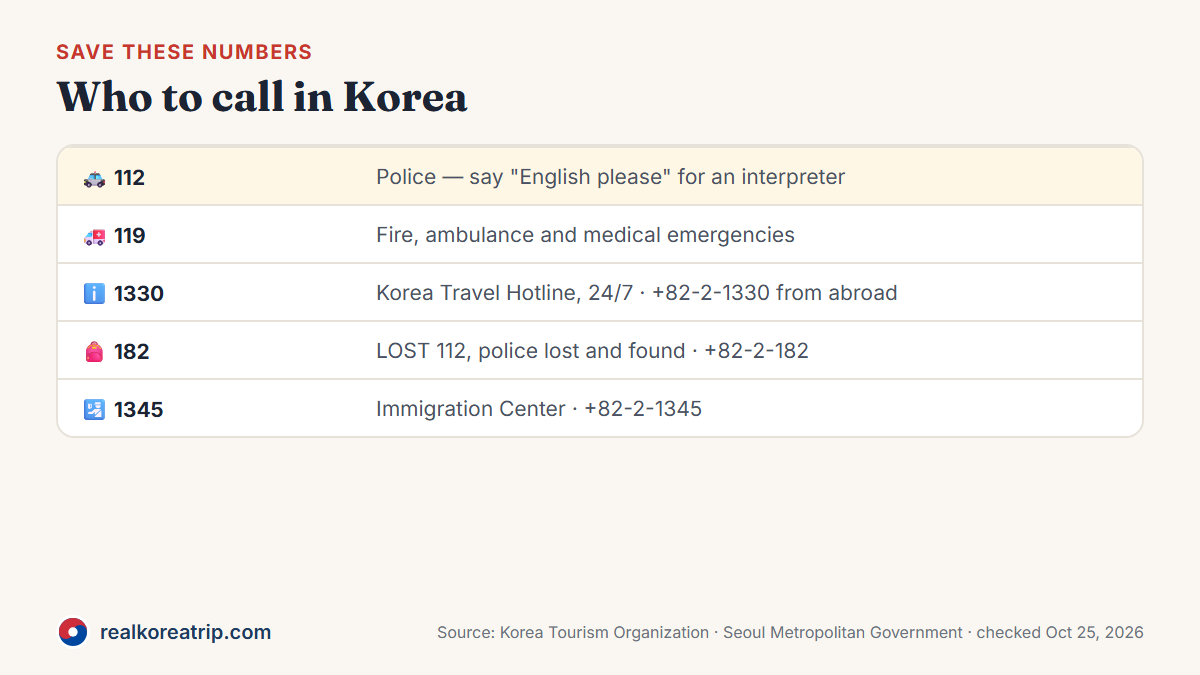
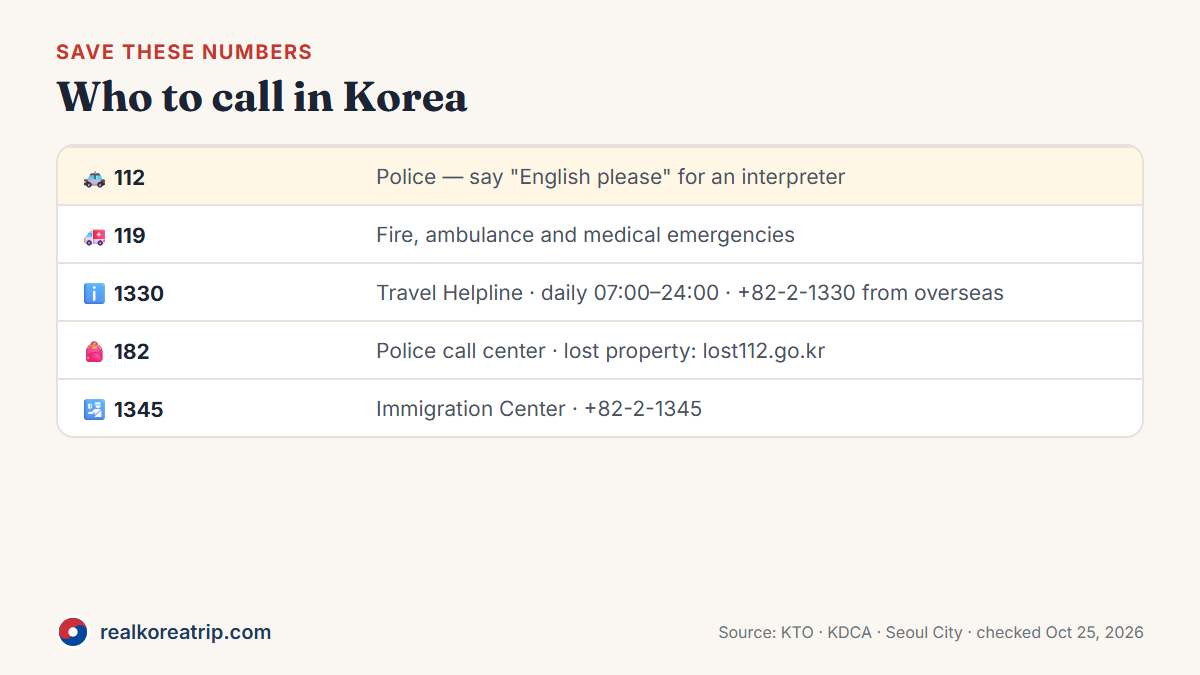
Busan guide: remove Haeundae photo (NoFoP warning on source file)

Changed region(s): [[0.3083, 0.4044, 0.8325, 0.4667], [0.37, 0.9022, 0.8017, 0.9644], [0.3083, 0.4978, 0.6783, 0.5289]]

diff --git a/busan-travel-guide/index.html b/busan-travel-guide/index.html
@@ -29,7 +29,6 @@
 <div class="tbl"><table><thead><tr><th></th><th>What to know</th></tr></thead><tbody><tr><td>Getting there</td><td>KTX Seoul–Busan via Gyeongju ₩54,400, Suseo–Busan ₩52,900 (standard adult; fares differ by route)</td></tr><tr><td>Getting around</td><td>Subway ₩1,600 or ₩1,800 by transit card, depending on distance; T-money works</td></tr><tr><td>Beach</td><td>Haeundae Beach, free, about 1.5 km of sand</td></tr><tr><td>Village</td><td>Gamcheon Culture Village, free, open daily</td></tr><tr><td>Market</td><td>Jagalchi Market; main building closed on the 1st, 3rd and 5th Tuesdays</td></tr><tr><td>Must-eat</td><td>Dwaeji gukbap (pork and rice soup), milmyeon (wheat noodles)</td></tr></tbody></table></div>
 <p class="src">Source: <a href="https://www.visitbusan.net/index.do?menuCd=DOM_000000301001001000&amp;uc_seq=365&amp;lang_cd=en" target="_blank" rel="noopener">Visit Busan</a>, <a href="https://english.visitkorea.or.kr/svc/contents/contentsView.do?vcontsId=111053" target="_blank" rel="noopener">Korea Tourism Organization</a>, <a href="https://www.bisco.or.kr/jagalchimarket/sub/sub02/sub02_1/?tabName=con04" target="_blank" rel="noopener">Busan Infrastructure Corporation</a>, <a href="https://www.humetro.busan.kr/homepage/english/page/subLocation.do?menu_no=100601040101" target="_blank" rel="noopener">Busan Transportation Corporation</a> and Korail's KTX fare table (as of Sep 1, 2026; see our <a href="/how-to-book-ktx-korea/">KTX guide</a>); checked Oct 23, 2026.</p>
 <h2 id="haeundae-beach">Haeundae Beach</h2>
-<figure class="fig"><img src="/img/photo-busan-haeundae.jpg?v=7055fa98" alt="Haeundae Beach with sand in the foreground and tall buildings along the shore" loading="lazy" width="1200" height="675"><figcaption>Haeundae Beach, May 2024. Photo: Brit in Seoul (CC BY-SA 4.0), cropped.</figcaption></figure>
 <p>The Korea Tourism Organization calls Haeundae the most famous beach in Busan, with white sand in front of a shallow bay. It gets crowded every summer.</p>
 <div class="tbl"><table><thead><tr><th>Entry</th><th>Free</th></tr></thead><tbody><tr><td>Size</td><td>About 1.5 km long and 30–50 m wide</td></tr><tr><td>Nearby</td><td>Dongbaekseom Island, Busan Aquarium</td></tr><tr><td>Swimming</td><td>Depends on the season and on-site rules: check the signs at the beach</td></tr></tbody></table></div>
 <p class="src">Source: <a href="https://english.visitkorea.or.kr/svc/contents/contentsView.do?vcontsId=111053" target="_blank" rel="noopener">Korea Tourism Organization — Haeundae Beach</a>; checked Oct 23, 2026.</p>
@@ -70,7 +69,7 @@
 <p>A Visit Busan food guide puts dwaeji gukbap (pork and rice soup) first, followed by milmyeon (wheat noodles). Jagalchi Market is known for seafood.</p>
 <h3 id="how-much-is-the-busan-subway">How much is the Busan subway?</h3>
 <p>₩1,600 or ₩1,800 for an adult with a transit card, depending on distance.</p></div>
-<div class="sources"><b>Sources</b><ul><li><a href="https://www.visitbusan.net/index.do?menuCd=DOM_000000301001001000&uc_seq=365&lang_cd=en" target="_blank" rel="noopener">Visit Busan (Busan Metropolitan City) — Gamcheon Culture Village</a></li><li><a href="https://visitbusan.net/index.do?lang_cd=en&menuCd=DOM_000000302003001000&uc_seq=1008" target="_blank" rel="noopener">Visit Busan — Delicious Busan food tour</a></li><li><a href="https://english.visitkorea.or.kr/svc/contents/contentsView.do?vcontsId=111053" target="_blank" rel="noopener">Korea Tourism Organization — Haeundae Beach</a></li><li><a href="https://english.visitkorea.or.kr/svc/whereToGo/locIntrdn/rgnContentsView.do?vcontsId=69318" target="_blank" rel="noopener">Korea Tourism Organization — Jagalchi Market</a></li><li><a href="https://www.bisco.or.kr/jagalchimarket/sub/sub02/sub02_1/?tabName=con04" target="_blank" rel="noopener">Busan Infrastructure Corporation — Jagalchi Market floor guide</a></li><li><a href="https://www.humetro.busan.kr/homepage/english/page/subLocation.do?menu_no=100601040101" target="_blank" rel="noopener">Busan Transportation Corporation — Subway fares</a></li></ul><p style="margin-top:8px;color:#7b8394">Last checked Oct 23, 2026. Details can change — please confirm with the official source before you travel.</p><p style="margin-top:12px"><b>Photo credits</b></p><ul><li><a href="https://commons.wikimedia.org/wiki/File:Haeundae_Beach_May_2024.jpg" target="_blank" rel="noopener">Haeundae Beach (May 2024) — Brit in Seoul, CC BY-SA 4.0, cropped</a> (<a href="https://creativecommons.org/licenses/by-sa/4.0/" target="_blank" rel="noopener license">license</a>)</li><li><a href="https://commons.wikimedia.org/wiki/File:Gamcheon_Culture_Village_in_Busan,_South_Korea.jpg" target="_blank" rel="noopener">Gamcheon Culture Village (Apr 2026) — VN.NguyenDucDuy, CC BY-SA 4.0, cropped</a> (<a href="https://creativecommons.org/licenses/by-sa/4.0/" target="_blank" rel="noopener license">license</a>)</li><li><a href="https://commons.wikimedia.org/wiki/File:Jagalchi_Market_01.jpg" target="_blank" rel="noopener">Jagalchi Market (Oct 2022) — Bernard Gagnon, CC0, cropped</a> (<a href="https://creativecommons.org/publicdomain/zero/1.0/" target="_blank" rel="noopener license">license</a>)</li></ul></div>
+<div class="sources"><b>Sources</b><ul><li><a href="https://www.visitbusan.net/index.do?menuCd=DOM_000000301001001000&uc_seq=365&lang_cd=en" target="_blank" rel="noopener">Visit Busan (Busan Metropolitan City) — Gamcheon Culture Village</a></li><li><a href="https://visitbusan.net/index.do?lang_cd=en&menuCd=DOM_000000302003001000&uc_seq=1008" target="_blank" rel="noopener">Visit Busan — Delicious Busan food tour</a></li><li><a href="https://english.visitkorea.or.kr/svc/contents/contentsView.do?vcontsId=111053" target="_blank" rel="noopener">Korea Tourism Organization — Haeundae Beach</a></li><li><a href="https://english.visitkorea.or.kr/svc/whereToGo/locIntrdn/rgnContentsView.do?vcontsId=69318" target="_blank" rel="noopener">Korea Tourism Organization — Jagalchi Market</a></li><li><a href="https://www.bisco.or.kr/jagalchimarket/sub/sub02/sub02_1/?tabName=con04" target="_blank" rel="noopener">Busan Infrastructure Corporation — Jagalchi Market floor guide</a></li><li><a href="https://www.humetro.busan.kr/homepage/english/page/subLocation.do?menu_no=100601040101" target="_blank" rel="noopener">Busan Transportation Corporation — Subway fares</a></li></ul><p style="margin-top:8px;color:#7b8394">Last checked Oct 23, 2026. Details can change — please confirm with the official source before you travel.</p><p style="margin-top:12px"><b>Photo credits</b></p><ul><li><a href="https://commons.wikimedia.org/wiki/File:Gamcheon_Culture_Village_in_Busan,_South_Korea.jpg" target="_blank" rel="noopener">Gamcheon Culture Village (Apr 2026) — VN.NguyenDucDuy, CC BY-SA 4.0, cropped</a> (<a href="https://creativecommons.org/licenses/by-sa/4.0/" target="_blank" rel="noopener license">license</a>)</li><li><a href="https://commons.wikimedia.org/wiki/File:Jagalchi_Market_01.jpg" target="_blank" rel="noopener">Jagalchi Market (Oct 2022) — Bernard Gagnon, CC0, cropped</a> (<a href="https://creativecommons.org/publicdomain/zero/1.0/" target="_blank" rel="noopener license">license</a>)</li></ul></div>
 </article><aside class="side"><div class="box"><h4>More Destinations guides</h4><ul><li><a href="/gyeongju-travel-guide/">Gyeongju Travel Guide: Korea's Ancient Silla Capital in One Day</a></li><li><a href="/jeju-travel-guide/">Jeju Island Travel Guide: Volcanoes, Hallasan and Black Pork</a></li><li><a href="/jeonju-day-trip-from-seoul/">Jeonju Day Trip from Seoul: Hanok Village Guide</a></li></ul></div></aside></div>
 <footer><div class="wrap"><div class="cols">
 <div><a class="logo" style="color:#fff" href="/"><svg class="mark" aria-hidden="true" xmlns="http://www.w3.org/2000/svg" viewBox="0 0 64 64"><circle cx="32" cy="32" r="30" fill="#0047a0"/><path d="M2 32A30 30 0 0 1 62 32A15 15 0 0 0 32 32A15 15 0 0 1 2 32Z" fill="#cd2e3a"/><circle cx="32" cy="32" r="10" fill="#fff"/></svg><span>Real<em>Korea</em>Trip</span></a><p style="margin-top:12px;max-width:320px">Practical, up-to-date guides for travelers visiting South Korea.</p></div>
